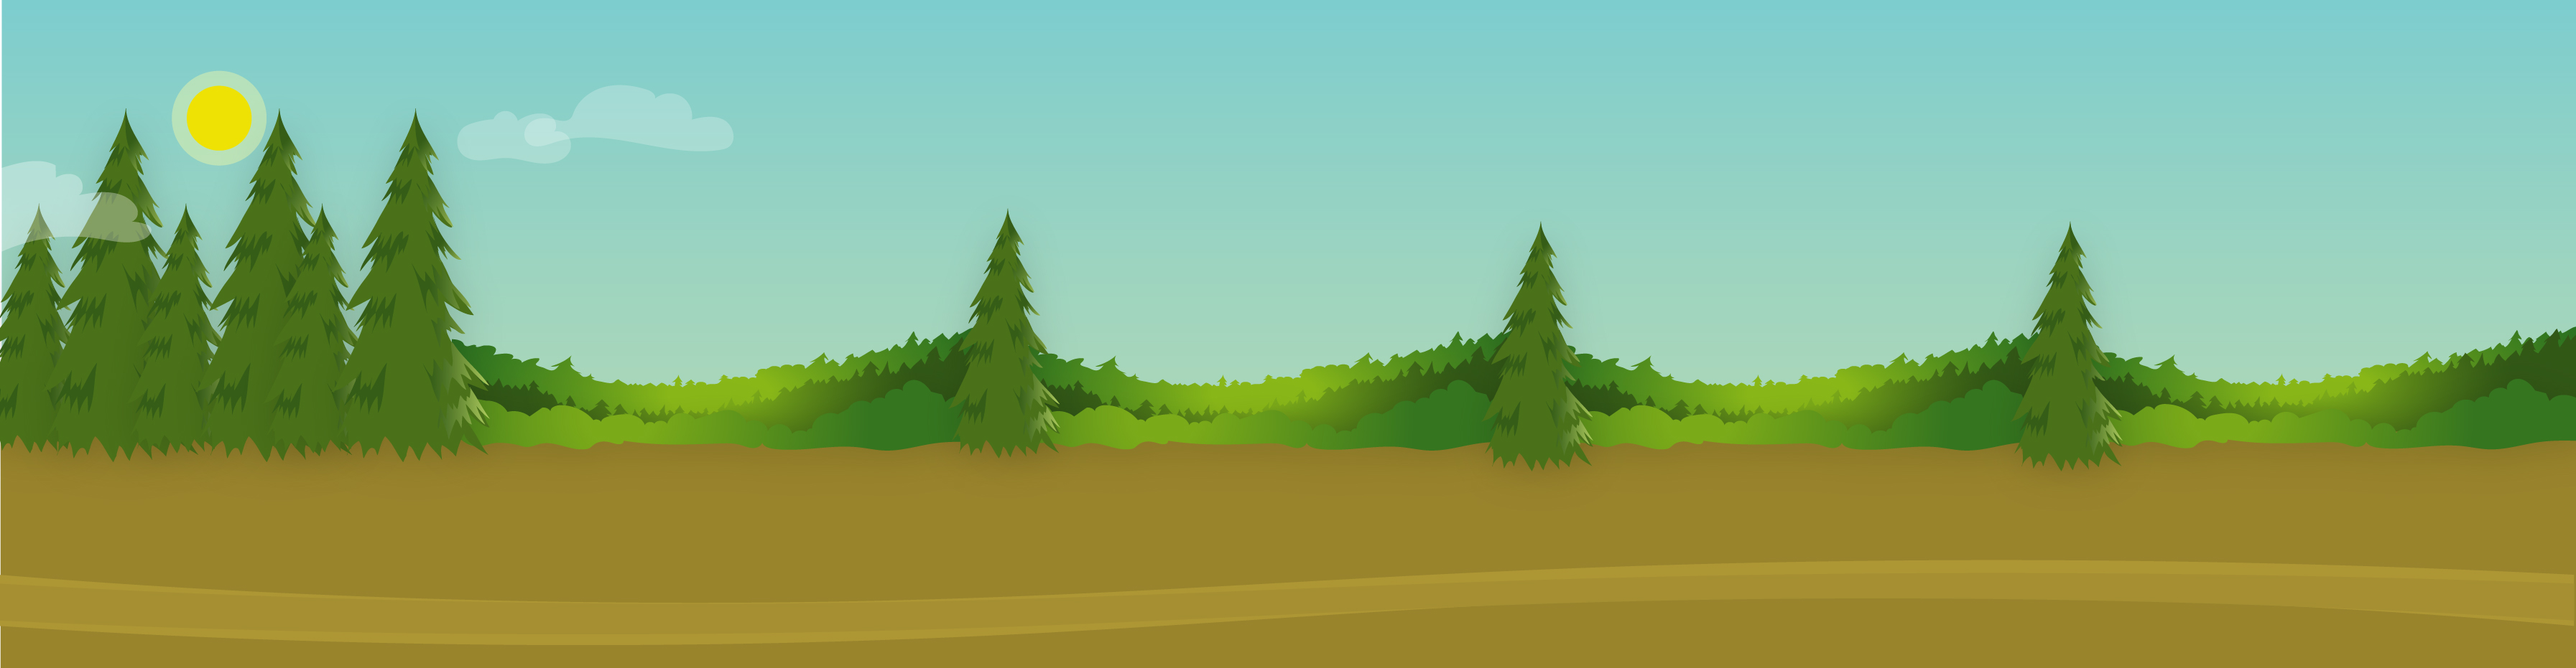
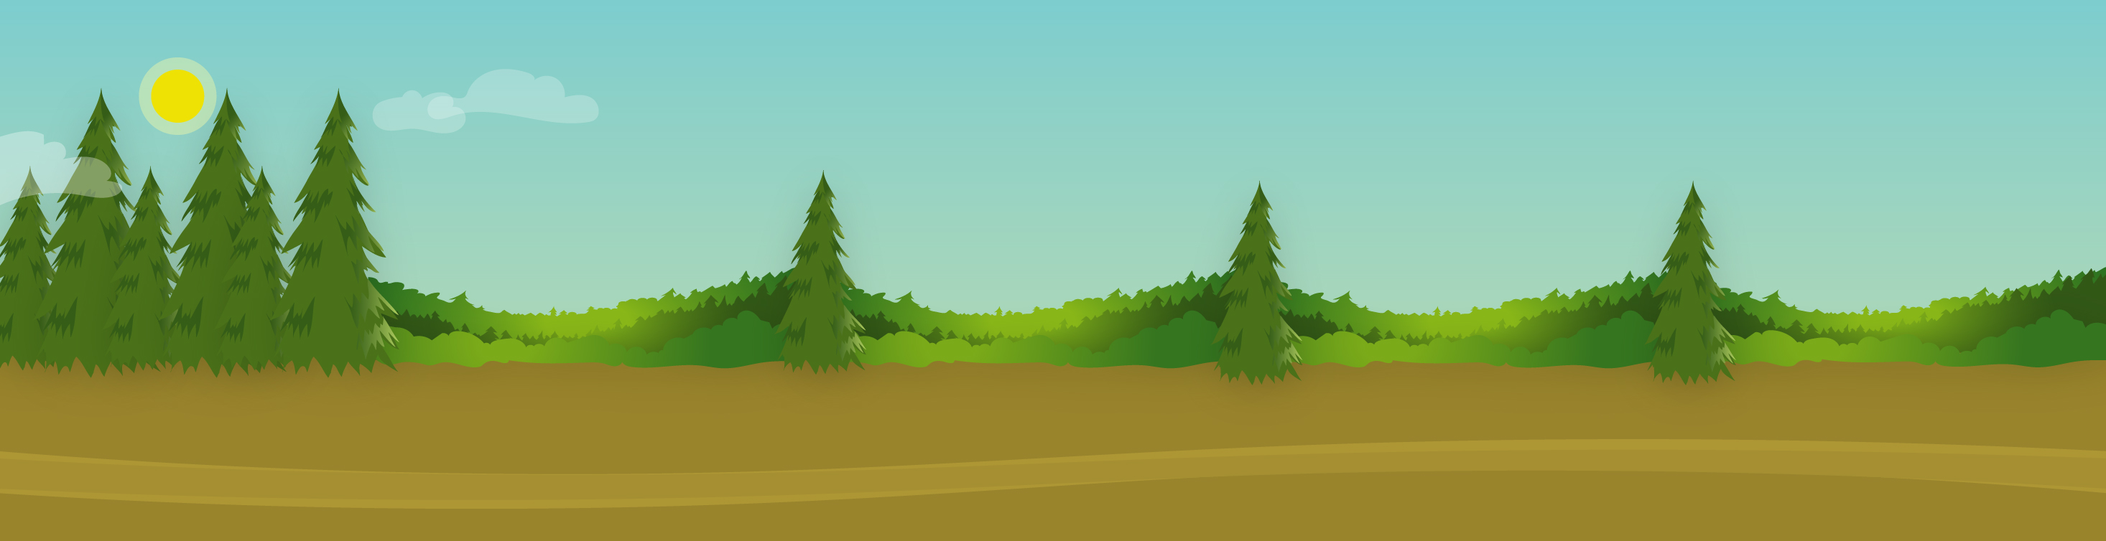
Pantalla lista

diff --git a/src/logic.js b/src/logic.js
@@ -1,7 +1,7 @@
 class logic {
 constructor(app){
 this.app=app;
-this.app.createCanvas(1700,935)
+this.app.createCanvas(1530,754)
 this.fondo=this.app.loadImage("src/Images/fondo.jpg")
 this.inicio=this.app.loadImage("src/Images/Pantalla 1.jpg")
 this.pantalla=0;
@@ -11,15 +11,34 @@ this.font=this.app.loadFont("src/Font/MoonbrightDemo-1GGn2.ttf")
 } 
 draw(){
    this.app.textFont(this.font)
+   this.app.fill(255)
     switch(this.pantalla){
       case 0: 
       this.app.image(this.inicio,0,0)
-      this.app.text("Leer",770,670)
+      this.app.text("Leer",698,550)
       this.app.textSize(110)
-    }
-    
-}
 
+      break;
+      
+      case 1:
+      this.app.image(this.fondo,0,0)
+
+      break;
+    }
+
+}
+clic(){
+    switch(this.pantalla){
+        case 0:
+            if(this.app.mouseX>=501 && this.app.mouseX<=1029 && this.app.mouseY>=363 && this.app.mouseY<=694){
+                this.pantalla=1
+
+
+            }
+    }
+
+
+}
 
 
 }

diff --git a/src/sketch.js b/src/sketch.js
@@ -8,7 +8,7 @@ app.draw=function(){
     logica.draw();
 }
 app.mousePressed=function(){
-    logica.mousePressed();
+    logica.clic();
 }
 app.keyPressed=function(){
     logica.keyPressed();
